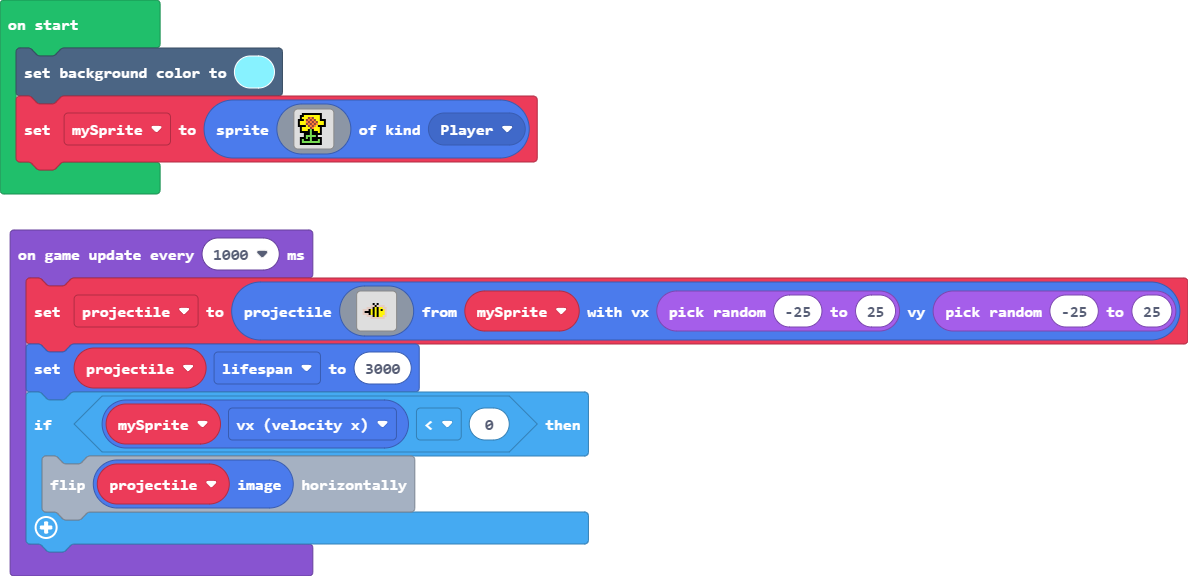
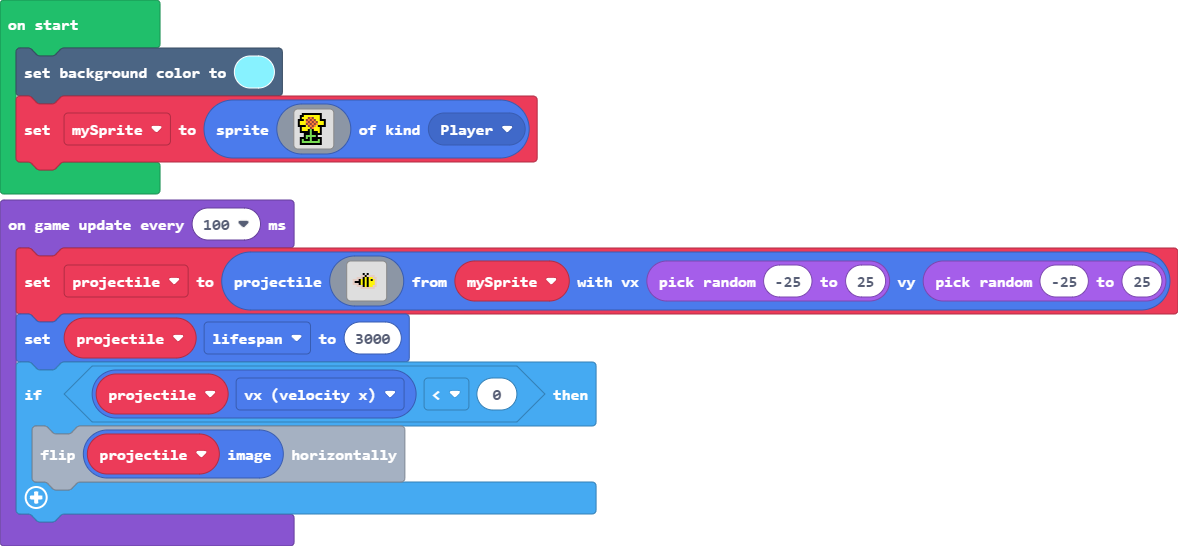
Bees can now flip, made bee spawn rate much faster

Changed region(s): [[0.0, 0.0311, 1.0, 1.0]]

diff --git a/main.ts b/main.ts
@@ -18,7 +18,7 @@ let mySprite = sprites.create(img`
     . f 7 7 7 7 7 7 7 7 7 f . . . . 
     . f f f f f f f f f f f . . . . 
     `, SpriteKind.Player)
-game.onUpdateInterval(1000, function () {
+game.onUpdateInterval(100, function () {
     projectile = sprites.createProjectileFromSprite(img`
         . . . . . . . . . . . . . . . . 
         . . . . . . . . . . . . . . . . 
@@ -38,7 +38,7 @@ game.onUpdateInterval(1000, function () {
         . . . . . . . . . . . . . . . . 
         `, mySprite, randint(-25, 25), randint(-25, 25))
     projectile.lifespan = 3000
-    if (mySprite.vx < 0) {
+    if (projectile.vx < 0) {
         projectile.image.flipX()
     }
 })
